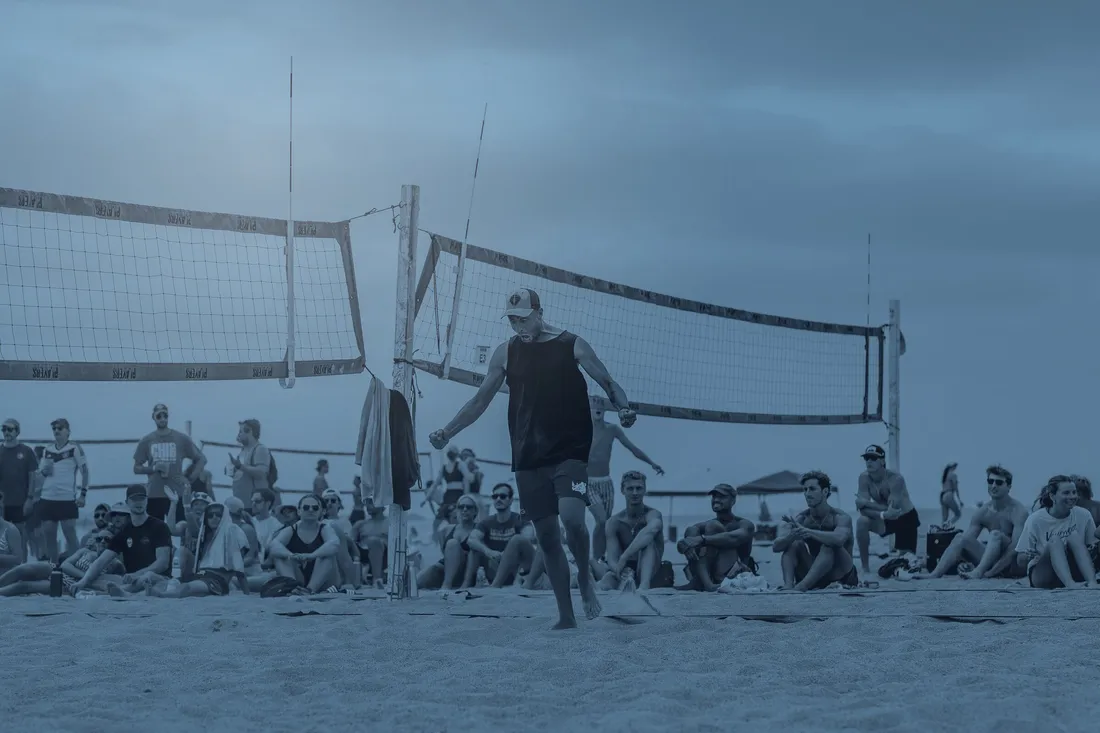
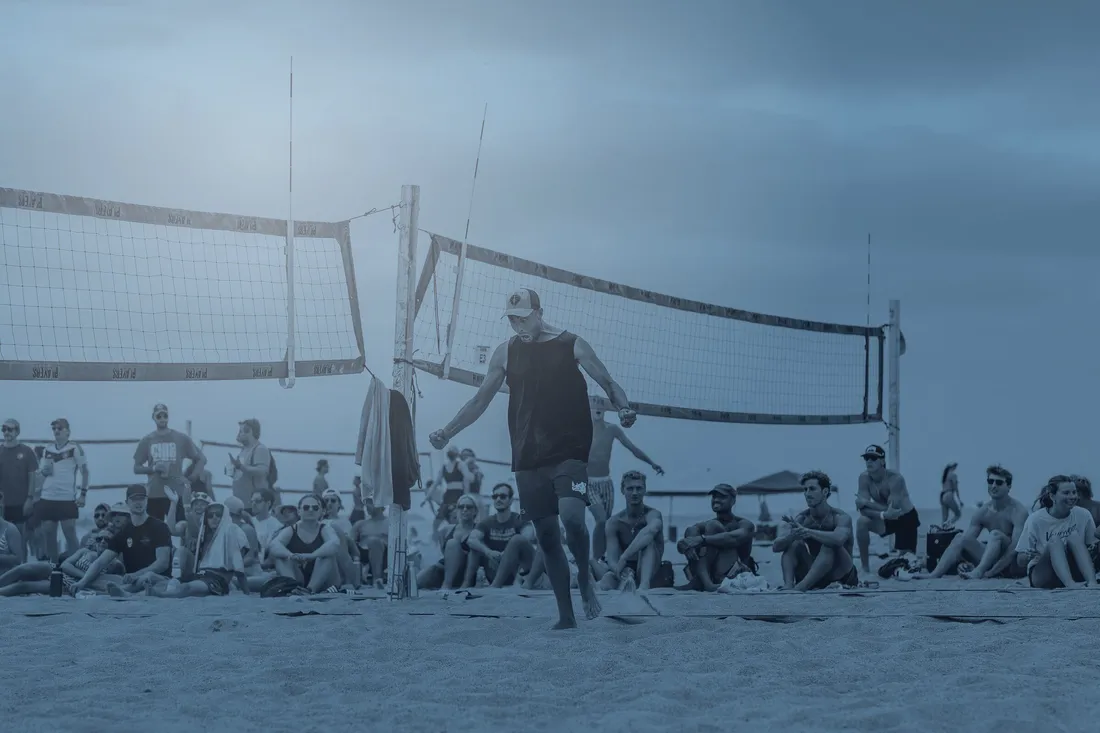
feat: triple the hero sky lift — subtle wasn't the point (owner: looks the same)
gray35 measured better but read identical at a glance; the identity moment
needs the difference to be visible, not just measurable. Rebuilt from the
pre-glow original at gray55 with a wider radius: name-zone sky now 8.7:1
vs ink (was 4.2:1 originally, 5.6:1 after the first pass). Asset URLs
cache-busted (?v=skyglow2) so no stale tab can mask the change.

diff --git a/app/globals.css b/app/globals.css
@@ -7114,10 +7114,10 @@ h3 {
   justify-content: space-between;
   min-height: min(92vh, 980px);
   background-color: var(--ink);
-  background-image: url("/images/home-hero-frame.jpg");
+  background-image: url("/images/home-hero-frame.jpg?v=skyglow2");
   background-image: image-set(
-    url("/images/home-hero-frame.webp") type("image/webp"),
-    url("/images/home-hero-frame.jpg") type("image/jpeg")
+    url("/images/home-hero-frame.webp?v=skyglow2") type("image/webp"),
+    url("/images/home-hero-frame.jpg?v=skyglow2") type("image/jpeg")
   );
   background-size: cover;
   background-position: center 38%;
@@ -7603,7 +7603,7 @@ h3 {
         rgb(7 16 21 / 0.62) 74%,
         rgb(7 16 21 / 0.88) 100%
       ),
-      url("/images/home-hero-frame.jpg");
+      url("/images/home-hero-frame.jpg?v=skyglow2");
     background-image: linear-gradient(
         180deg,
         rgb(7 16 21 / 0) 0%,
@@ -7612,8 +7612,8 @@ h3 {
         rgb(7 16 21 / 0.88) 100%
       ),
       image-set(
-        url("/images/home-hero-frame-narrow.webp") type("image/webp"),
-        url("/images/home-hero-frame.jpg") type("image/jpeg")
+        url("/images/home-hero-frame-narrow.webp?v=skyglow2") type("image/webp"),
+        url("/images/home-hero-frame.jpg?v=skyglow2") type("image/jpeg")
       );
     background-size: cover, cover;
     background-position: center, center 30%;
